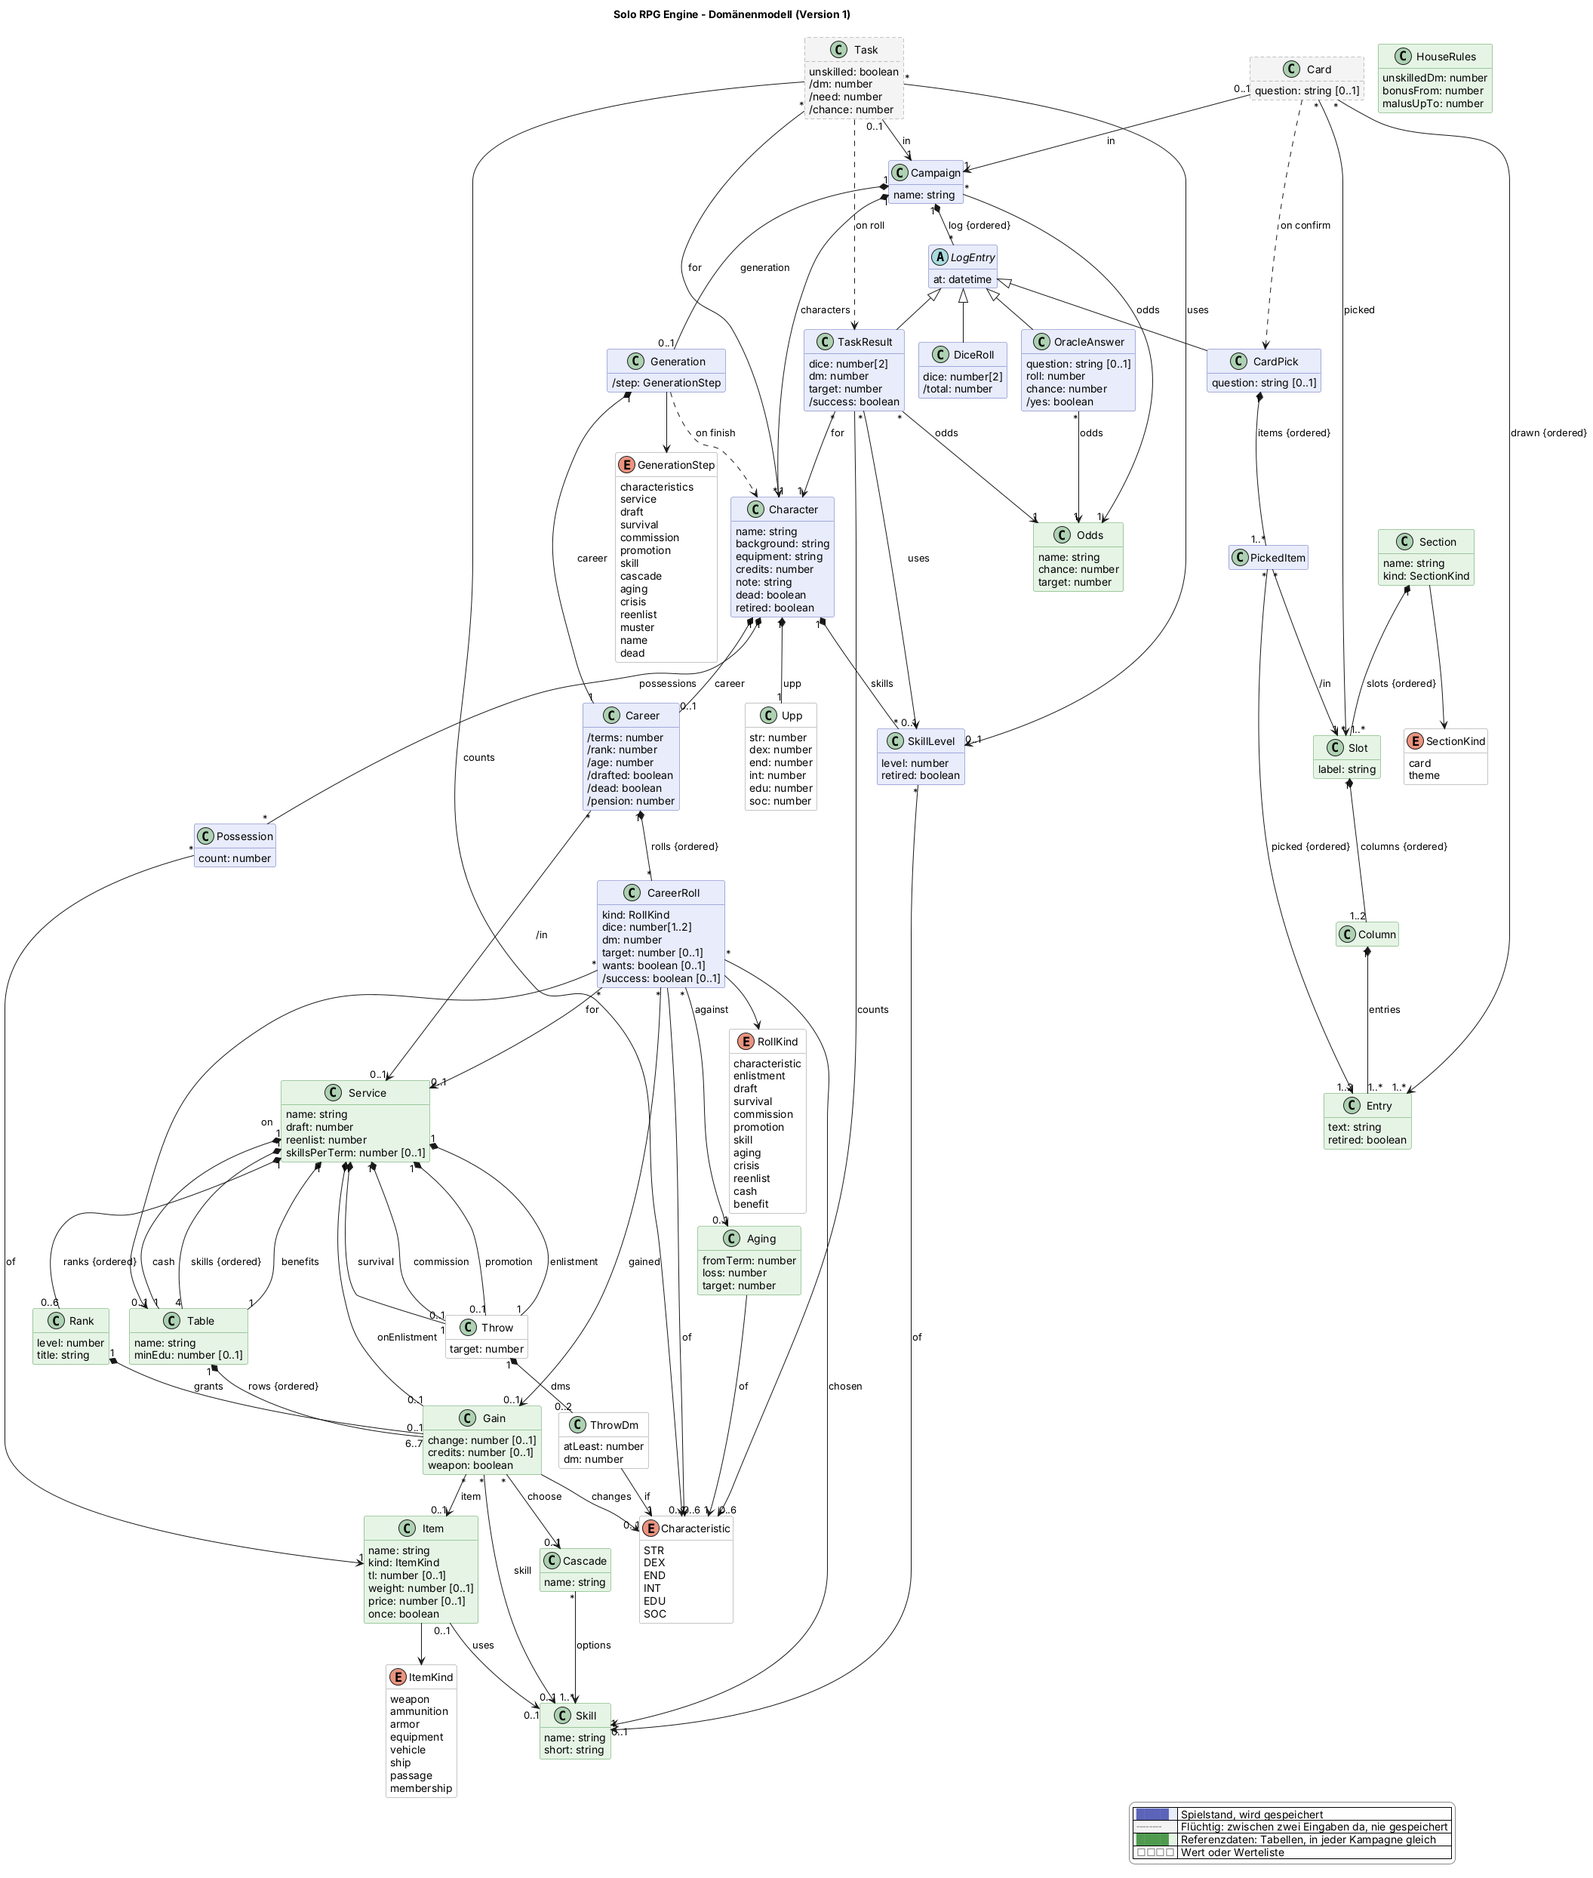
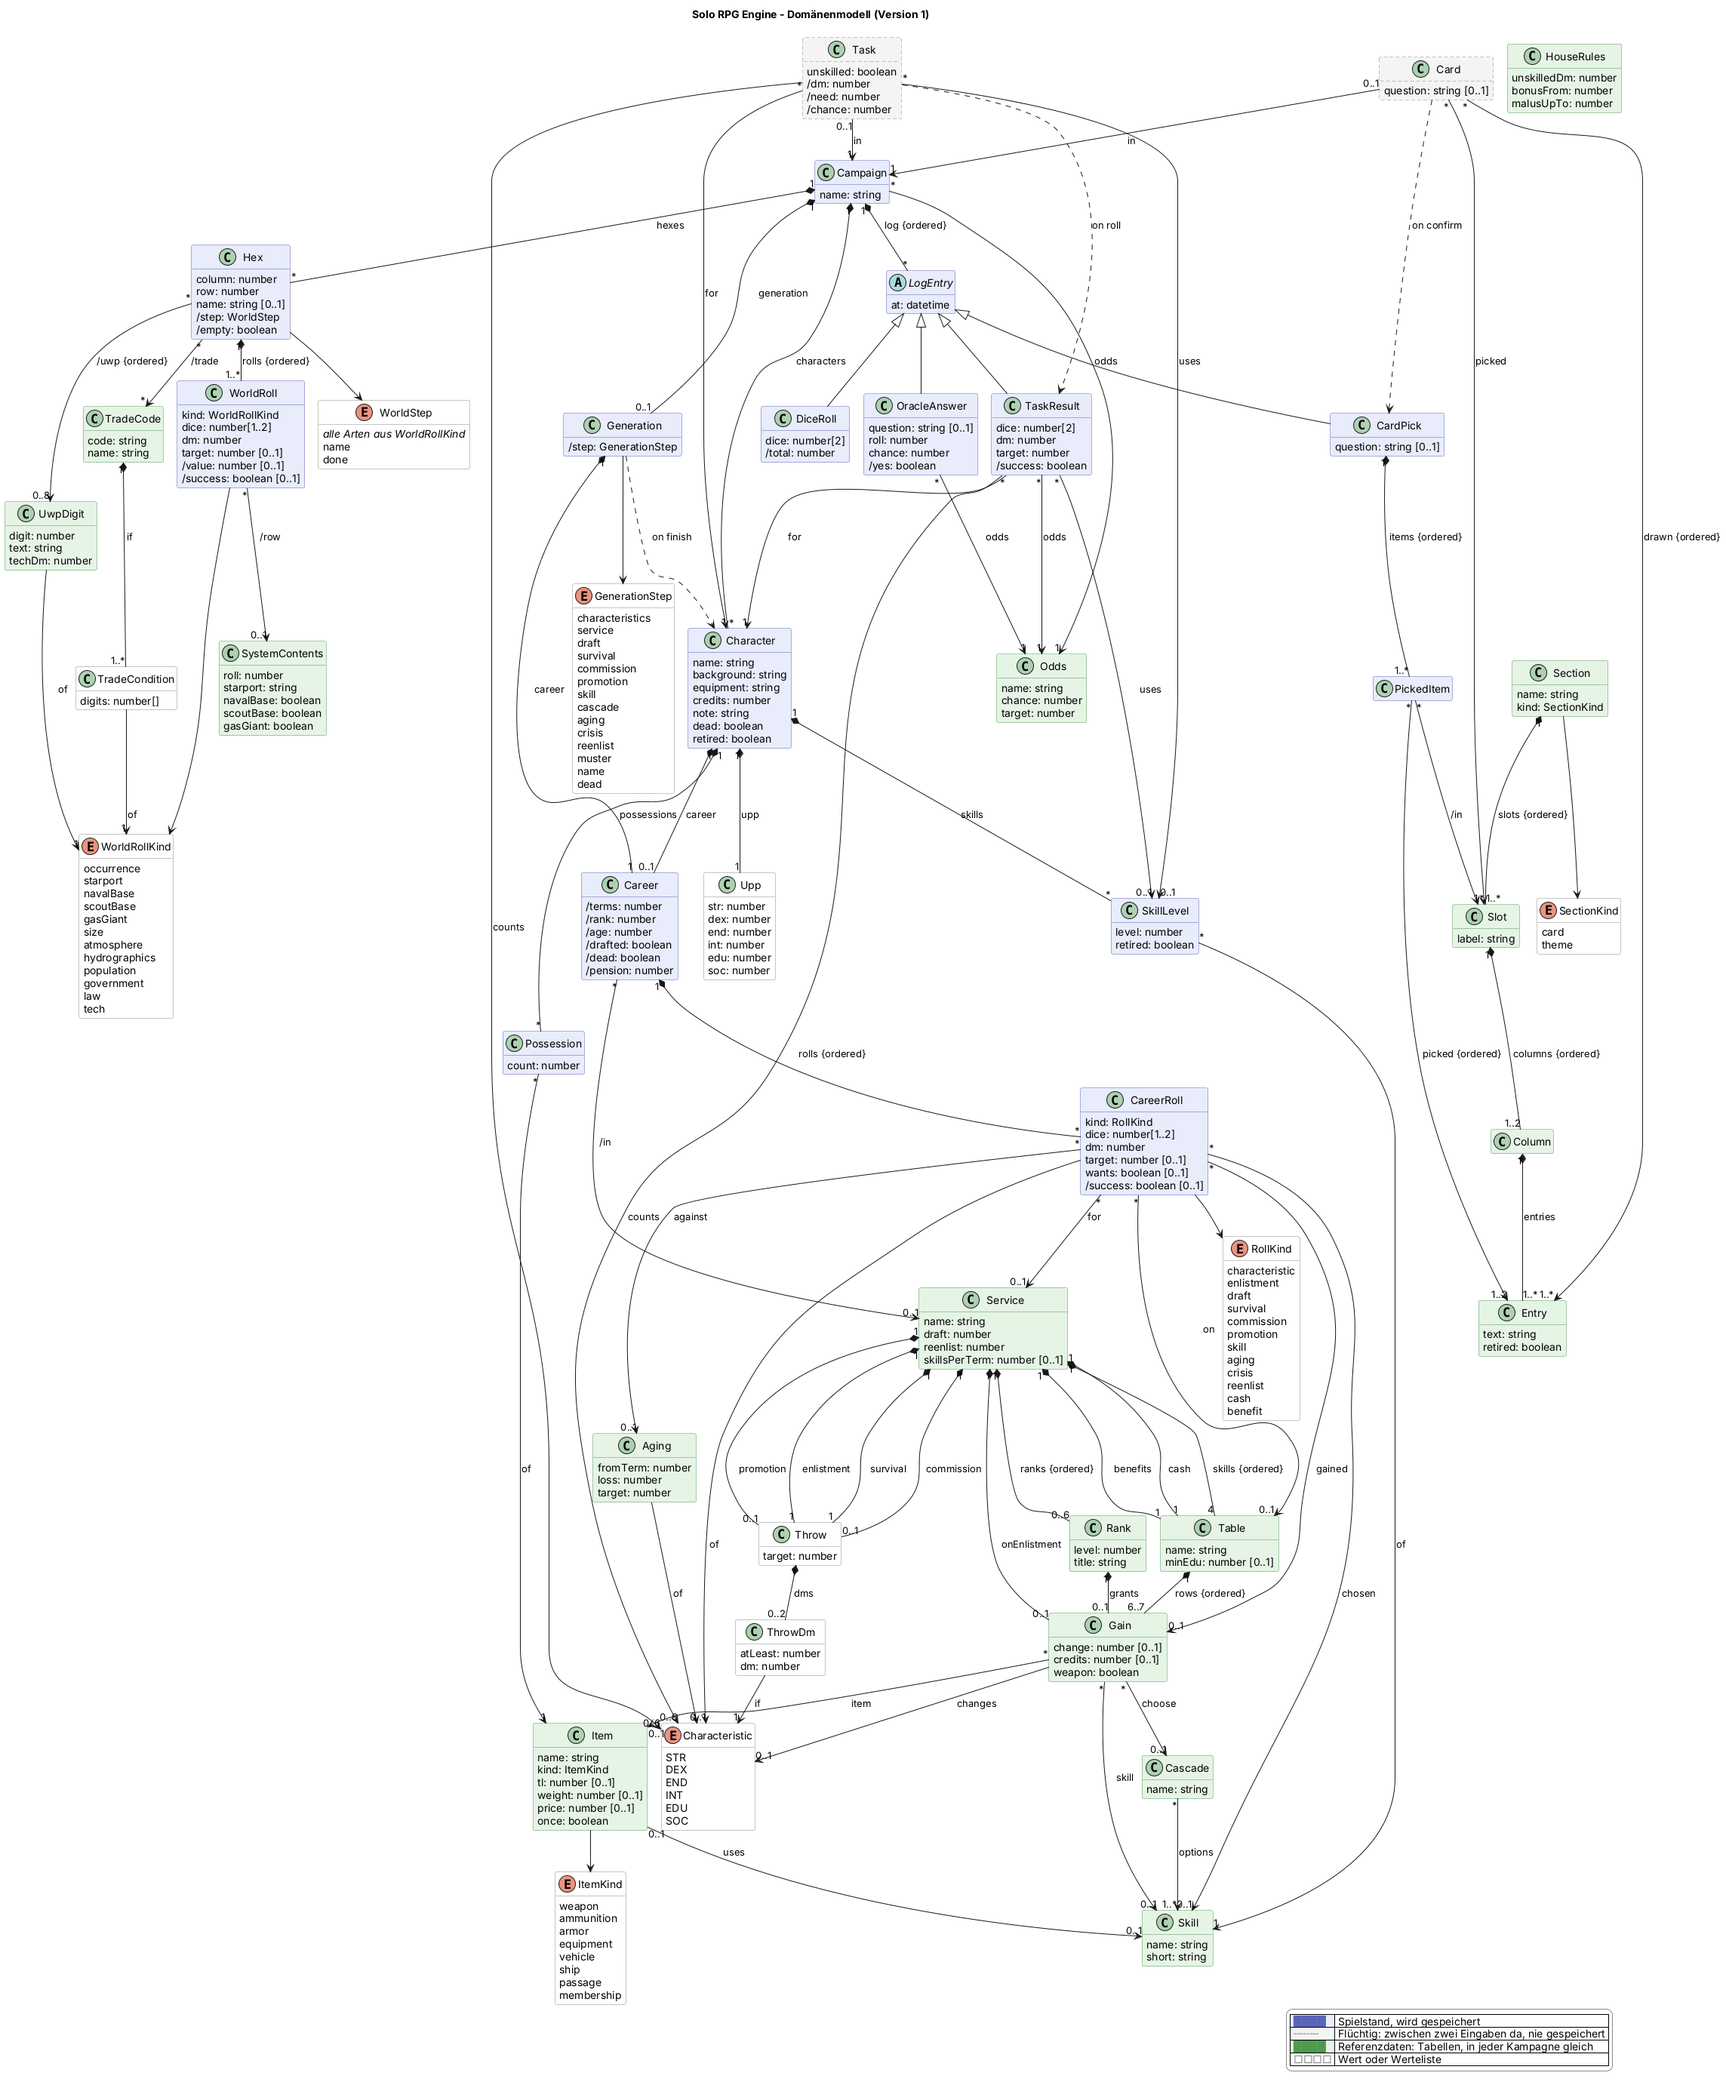
Modell-Entwurf: Subsektor mit Hexfeldern und Weltenerschaffung
Claude-Session: https://claude.ai/code/session_016ZF27vUEuWCExwatww5ArX

diff --git a/docs/domain-model.md b/docs/domain-model.md
@@ -29,6 +29,10 @@ Lücken unter [Wo der Code noch nicht folgt](#wo-der-code-noch-nicht-folgt).
 > Am 27. Oktober 2026 freigegeben: Namen auf der Karte als Paar aus Vor- und Nachname (siehe
 > *Namen*); das Bild ändert sich dadurch nicht.
 >
+> **Entwurf, wartet auf Freigabe** (31. Oktober 2026): der Subsektor mit Weltenerschaffung (siehe
+> *Subsektor* und *Weltenerschaffung*). Neu im Bild: `Hex`, `WorldRoll`, `Campaign.hexes`,
+> `WorldStep`, `WorldRollKind` und als Referenzdaten `SystemContents`, `UwpDigit`, `TradeCode`.
+>
 > **Zurzeit** hat die Karte nur die Felder mit Einträgen aus Mythic und die Namen, alle als Paar: Aktion und
 > Beschreibung des Zufallsereignisses, Hören und Riechen, die drei Namen sowie die Themen-Tafeln NSC, NSC-Aktionen,
 > Welt (mit Schiff), Wesen und Handlung mit Mythics Elements-Tabellen. Alle übrigen Felder und Bereiche sind ausgeblendet, bis es
@@ -104,6 +108,17 @@ Vacc Suit, Jack-of-all-Trades, …), Terms, Cr.
 | Zugewinn | `Gain` | Eine Zeile einer Tabelle oder was ein Rang bringt: Fertigkeit, Attribut, Gegenstand, Waffe oder Geld |
 | Kaskade | `Cascade` | Ein Sammelbegriff, aus dem man eine Fertigkeit wählt: Blade Combat, Gun Combat, Vehicle |
 | Altern | `Aging` | Eine Zeile der Aging Table: ab welchem Term welches Attribut wie viel verlieren kann |
+| Subsektor | (`Campaign.hexes`) | Die Karte der Kampagne: 8 × 10 Hexfelder wie auf TAS Form 6; in der App der Reiter „Sektor“ |
+| Hexfeld | `Hex` | Ein erzeugtes Feld des Subsektors, benannt nach Spalte und Zeile, z. B. 0304 |
+| Nicht erzeugt | (kein `Hex`) | Ein Feld, für das noch nicht gewürfelt wurde; nur hier beginnt eine Weltenerschaffung |
+| Leer | `Hex./empty` | Ein erzeugtes Feld ohne Welt: Der erste Wurf hat keine ergeben |
+| Welt | `Hex` mit Welt | Ein Hexfeld mit Welt (Planet): Name, UWP, Basen, Gasriese, Handelscodes |
+| Weltenerschaffung | `Hex` mit `/step` vor `done` | Eine Welt, die gerade Wurf für Wurf entsteht |
+| Wurf der Weltenerschaffung | `WorldRoll` | Ein Wurf aus der World Generation Checklist, z. B. Atmosphäre 2W6 − 7 + Größe |
+| UWP | `Hex./uwp` | Universal World Profile, z. B. A788899-C: Raumhafen, Größe, Atmosphäre, Hydrographie, Bevölkerung, Regierung, Gesetz, TL |
+| Ziffer des UWP | `UwpDigit` | Eine Ziffer einer Stelle des UWP mit ihrem Text und ihrem DM auf den TL, z. B. Atmosphäre 8, Dense |
+| Systeminhalt | `SystemContents` | Eine Zeile der System Contents Table: Raumhafen, Marinebasis, Scoutbasis, Gasriese |
+| Handelscode | `TradeCode` | Ag, Na, In, Ni, Ri, Po, Wa, De, Va, As, Ic, mit Bedingungen an das UWP |
 
 ## Regeln, die das Bild nicht zeigt
 
@@ -327,7 +342,7 @@ Vacc Suit, Jack-of-all-Trades, …), Terms, Cr.
   - Die Erschaffung steht nicht im Log; ihr Lebenslauf ist ihr Verlauf.
   - Die Kampagnendatei enthält die offene Erschaffung und die Lebensläufe; beim Import wird jeder
     Lebenslauf von vorn nachgespielt und gegen diese Regeln geprüft.
-- **Referenzdaten sind Daten.** Stufen, Hausregeln, Fertigkeiten, Gegenstände, Laufbahnen, Bereiche, Felder und Einträge
+- **Referenzdaten sind Daten.** Stufen, Hausregeln, Fertigkeiten, Gegenstände, Laufbahnen, die Tabellen der Weltenerschaffung, Bereiche, Felder und Einträge
   stehen als Dateien unter `src/data/` und werden beim Start geprüft. Man ändert sie nur dort, nicht
   in der App. Pfeile führen nur aus Spielstand
   und Entwürfen in die Referenzdaten, nie zurück. Die Einträge sind eigene Inhalte oder stammen aus
@@ -358,10 +373,58 @@ Vacc Suit, Jack-of-all-Trades, …), Terms, Cr.
   Bereich ohne sichtbares Feld fehlt auf der Karte ganz. Der Log zeigt alte Einträge daraus weiter.
   Mindestens ein Feld hat einen Eintrag, der nicht ausgeblendet ist.
 
+- **Subsektor.** Jede Kampagne hat einen Subsektor aus 8 Spalten und 10 Zeilen wie TAS Form 6
+  (Charts S. 26): 0101 links oben, die Spalten mit gerader Nummer eine halbe Zeile tiefer. Ein
+  Hexfeld (`Hex`) gibt es erst, wenn für es gewürfelt wurde; je Spalte und Zeile höchstens eins.
+  Ein Feld ist also **nicht erzeugt** (kein `Hex`), **in Erschaffung** (`/step` vor `done`),
+  **leer** (`/empty`) oder hat eine **Welt**. Nur ein nicht erzeugtes Feld lässt eine neue
+  Weltenerschaffung zu; eine Welt antippen öffnet ihre Weltkarte, ein Feld in Erschaffung setzt sie
+  fort. Mehrere Felder dürfen zugleich in Erschaffung sein. Die Kampagnendatei enthält die
+  Hexfelder; eine neue Kampagne beginnt mit einem Subsektor ohne Hexfelder.
+- **Weltenerschaffung** nach der *World Generation Checklist* (Charts S. 15), jeder Wert einzeln
+  gewürfelt wie bei der Charaktererschaffung. Das Hexfeld hält nur seine Würfe (`rolls`) und den
+  Namen; UWP, Basen, Gasriese, Handelscodes und der nächste Schritt (`/step`) folgen daraus. Würfe
+  werden nur angehängt. Jeder `WorldRoll` hält Art, Würfel und DM fest, das Vorkommen auch seinen
+  Zielwert; der Wert (`/value`) folgt allein daraus. Der Ablauf, in dieser Reihenfolge:
+  1. *Vorkommen* (`occurrence`): 1W6, Welt bei 4+. Sonst ist das Feld **leer** und fertig.
+  2. *Systeminhalt*, je eine Spalte der System Contents Table mit 2W6 (`/row`, Summe + DM, auf 2
+     bis 12 begrenzt): Raumhafen; Marinebasis nur bei Raumhafen A oder B; Scoutbasis nicht bei E
+     oder X, mit DM −1 bei C, −2 bei B, −3 bei A; Gasriese. Ein Wurf, der nicht stattfindet, fehlt
+     unter den Würfen und heißt „nein“.
+  3. *UWP*: Größe 2W6 − 2; Atmosphäre 2W6 − 7 + Größe, bei Größe 0 kein Wurf und 0; Hydrographie
+     2W6 − 7 + Größe, DM −4 bei Atmosphäre 0, 1 oder A+, bei Größe 0 oder 1 kein Wurf und 0;
+     Bevölkerung 2W6 − 2; Regierung 2W6 − 7 + Bevölkerung; Gesetz 2W6 − 7 + Regierung; TL 1W6 plus
+     die DMs der Tech Level Table (`UwpDigit.techDm`) von Raumhafen, Größe, Atmosphäre,
+     Hydrographie, Bevölkerung und Regierung. Der DM eines Wurfs ist alles außer den Würfeln, also
+     bei der Atmosphäre −7 + Größe. Ein Wert unter 0 gilt als 0, die Hydrographie höchstens als A.
+     Sonst begrenzt nichts: Atmosphäre D–F, Regierung E–F und Gesetz über A haben in den Charts
+     keinen Text, die App zeigt dann nur die Ziffer (Ziffern über F in eHex ohne I und O).
+  4. *Name*: Zum Schluss gibt man den Namen ein (nicht leer); dann ist die Welt fertig (`done`).
+
+  **Verwerfen** geht, solange die Welt in Erschaffung ist, und macht das Feld wieder zu einem nicht
+  erzeugten. Ein leeres Feld und eine fertige Welt bleiben, wie sie sind. Die Weltenerschaffung
+  steht nicht im Log; ihre Würfe sind ihr Verlauf. Beim Import wird jedes Hexfeld von vorn
+  nachgespielt und gegen diese Regeln geprüft.
+- **Handelscodes** folgen aus dem UWP (`/trade`): Ein Code gilt, wenn jede seiner Bedingungen
+  (`TradeCondition`: Stelle des UWP und erlaubte Ziffern) erfüllt ist. Es sind die elf aus den
+  Charts (S. 15): Agricultural, Non-Agricultural, Industrial, Non-Industrial, Rich, Poor, Water
+  World, Desert World, Vacuum World, Asteroid Belt, Ice-capped. Subsector Capital vergibt die
+  Spielleitung; das kommt später.
+- **Die Darstellung auf der Karte** ist die übliche aus Classic Traveller und Sache der Anzeige:
+  oben die Nummer des Feldes, darunter der Raumhafen, in der Mitte die Welt (gefüllter Kreis mit
+  Wasser, leerer Kreis ohne, Punkte für einen Asteroidengürtel), Stern für die Marinebasis, Dreieck
+  für die Scoutbasis, kleiner Kreis rechts oben für den Gasriesen, darunter der Name, in
+  Großbuchstaben ab Bevölkerung 9.
+- **Später**, nicht in diesem Schritt: Reisezonen (Amber, Red), Notizen zur Welt, Verbindungen
+  (communications routes), Subsector Capital, ein Name für den Subsektor, mehrere Subsektoren zu
+  einem Sektor und eine fertige Welt wieder löschen.
+
 ## Wo der Code noch nicht folgt
 
 Der Code für Version 1 liegt unter `src/` (siehe [ARCHITECTURE.md](../ARCHITECTURE.md)). Er folgt dem
 Diagramm mit diesen Ausnahmen:
+
+- **Subsektor und Weltenerschaffung** sind noch nicht umgesetzt (Entwurf vom 31. Oktober 2026).
 
 
 - **`Gain` in den Daten.** Im Bild bringt eine Zeile ein Attribut über einen Verweis (`changes`);
